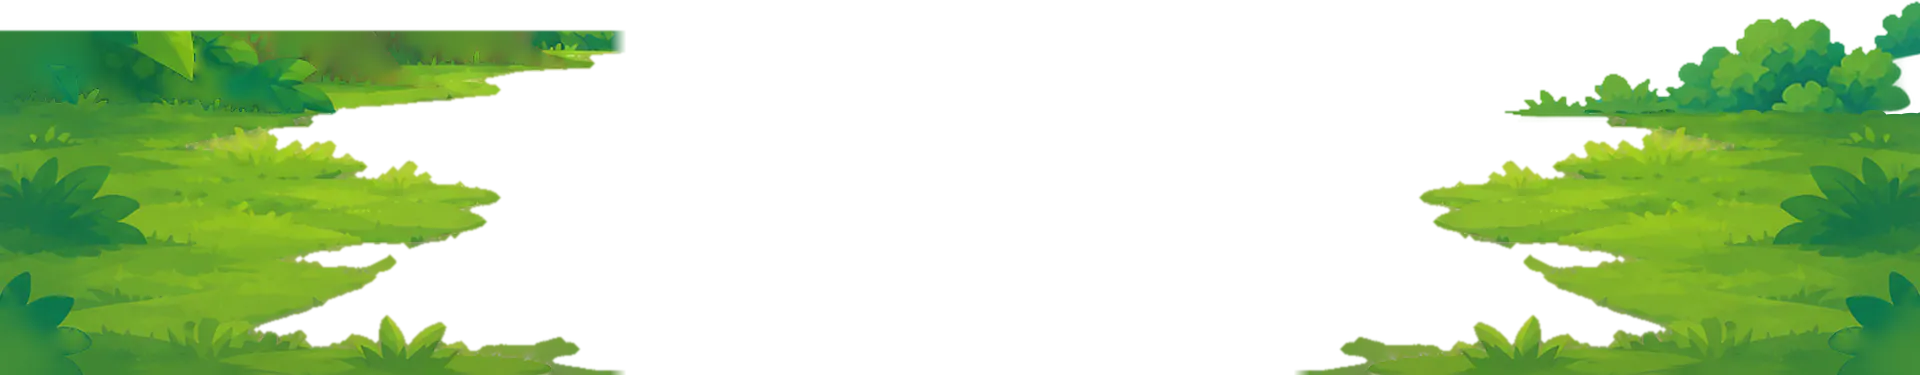
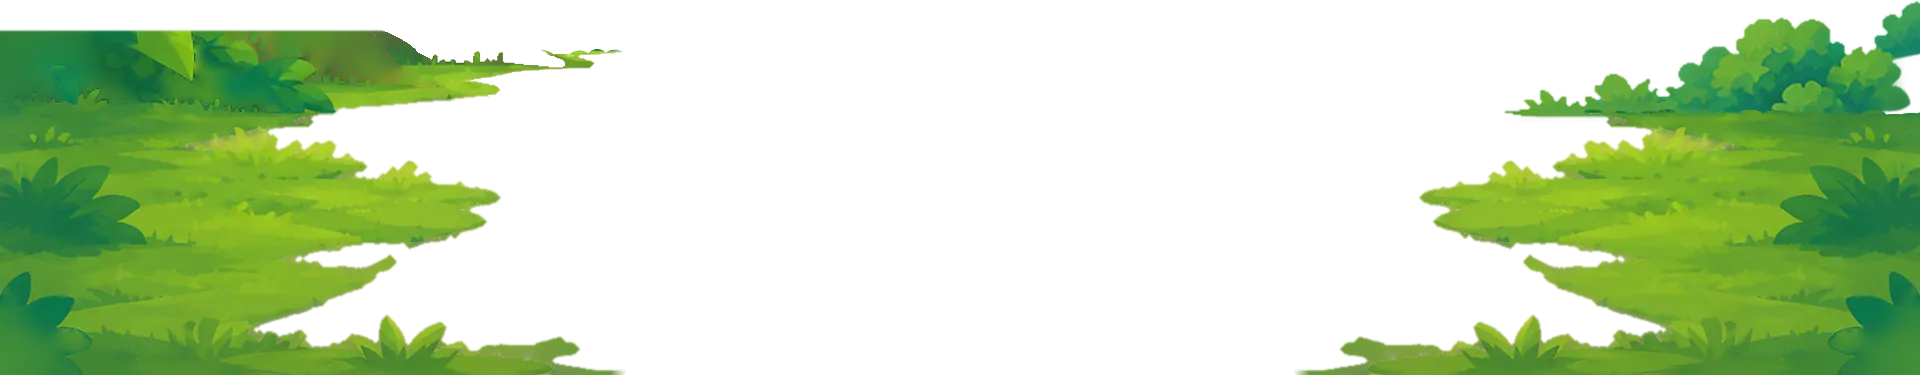
Remove the blur in the lawn between Grumble and the balance (27 Nov)
The lawn's filled-in strip by the tree's foot showed right of the roots: a
smoothed band of bush bottoms, cut straight along the top and fading out
over the water. Right of Grumble the lawn now begins at the shore below a
crisp row of small clumps and keeps only its own grass, so the paving runs
to the water as along the rest of the lake. Under the tree the soft shade
stays (behind Grumble) and ends in a slanted grassy edge, for the finale.
Done in tools/make_background.py (lawn_by_the_foot), so a rebuild keeps it.

Changed region(s): [[0.1875, 0.0587, 0.3438, 0.2347]]

diff --git a/tools/make_background.py b/tools/make_background.py
@@ -256,7 +256,7 @@ def build_lawn():
     # out over the paving, and looked pasted on (asked: "the grass leaf its look weird"). Since
     # 2026-11-26 the right has this lawn turned round instead, with a bank of bushes: lawn_both_sides.)
     alpha = alpha_left
-    return Image.fromarray(np.dstack([rgb, alpha[..., None] * 255]).astype(np.uint8)), floor
+    return Image.fromarray(np.dstack([rgb, alpha[..., None] * 255]).astype(np.uint8)), known
 
 
 # ---------------------------------------------------------------- a lawn on the right too (2026-11-26)
@@ -310,20 +310,28 @@ def right_bank():
     return Image.fromarray(np.clip(f, 0, 255).astype(np.uint8))
 
 
-def lawn_both_sides(full):
-    """The finished lawn (a full frame) with its twin at the right: turned round, from RIGHT_LAWN_TOP
-    down, and the bank behind its top edge."""
-    twin = np.array(ImageOps.mirror(full)).astype(np.float32)
-    w0, w1, h0, h1, seed = LAWN_CLUMPS
+def clump_top(base, seed):
+    """The output y of a lawn's top edge in each column: a crisp row of overlapping round clumps of
+    grass (LAWN_CLUMPS) rising above the line y = base (a number, or one per column)."""
+    w0, w1, h0, h1, _ = LAWN_CLUMPS
     rng = np.random.default_rng(seed)
-    top = np.full(W, float(RIGHT_LAWN_TOP))
+    base = np.broadcast_to(np.asarray(base, np.float64), (W,))
+    top = base.copy()
     x = 0.0
     while x < W:  # overlapping round clumps along the edge
         w, h = rng.uniform(w0, w1), rng.uniform(h0, h1)
         xs = np.arange(int(x), min(W, int(x + w) + 1))
         t = (xs - x) / w * 2 - 1
-        top[xs] = np.minimum(top[xs], RIGHT_LAWN_TOP - h * np.sqrt(np.clip(1 - t * t, 0, 1)))
+        top[xs] = np.minimum(top[xs], base[xs] - h * np.sqrt(np.clip(1 - t * t, 0, 1)))
         x += w * rng.uniform(0.55, 0.85)
+    return top
+
+
+def lawn_both_sides(full):
+    """The finished lawn (a full frame) with its twin at the right: turned round, from RIGHT_LAWN_TOP
+    down, and the bank behind its top edge."""
+    twin = np.array(ImageOps.mirror(full)).astype(np.float32)
+    top = clump_top(RIGHT_LAWN_TOP, LAWN_CLUMPS[4])
     rows = np.arange(H)[:, None]
     twin[..., 3] *= np.clip(rows - top[None, :] + 0.5, 0, 1)  # crisp: soft by a pixel only
     bank = right_bank()
@@ -332,6 +340,40 @@ def lawn_both_sides(full):
     layer.paste(bank, (W - bank.width + past, foot - bank.height))  # (cut at the frame's edge)
     a = over(twin, np.array(layer).astype(np.float32))  # the lawn's tufts in front of the bushes' feet
     a = over(np.array(full).astype(np.float32), a)
+    return Image.fromarray(np.clip(a, 0, 255).astype(np.uint8))
+
+
+# ---------------------------------------------------------------- no smudge by the tree's foot (2026-11-27)
+# The left lawn is filled in smoothly (push_pull_fill) where the reference has the tree's foot and the
+# bank bushes, and it stops at reference y 640, which cuts the bushes along a straight line. The tree
+# was meant to hide all that, but it did not: right of its foot (x ~470 to 626) a dark band of bush
+# bottoms, cut straight along the top and ending in a soft vertical fade over the water, and a smoothed
+# wedge under the foot showed between Grumble and the balance (asked 2026-11-27, with a crop of it: "fix
+# this blur fast"; the same strip that showed on the right on 2026-11-26). Now, right of PAVE_EDGE, the
+# lawn begins at the shore below a crisp row of small clumps, as on the right (LAWN_CLUMPS), and keeps
+# only its own grass there: the water meets the paving as it does all along the lake, and the paving
+# runs up to the tree's foot. Left of it the soft shade under the foot stays, behind Grumble (a shadow
+# there; the floor does not reach that far left, x < ~311, so the sky would show without it), and ends
+# in a slanting edge of small clumps, like the lawn's own edges (in the finale Grumble is not there).
+# (Tried and dropped the same day: the filled pixels under the foot given the lawn's own grass from a
+# little way below them, which repeated its tufts in plain stripes.)
+PAVE_EDGE = (470, 792, 1.6, 5)  # output px: where the shade's slanting end meets the lawn (behind Grumble's
+# horn), how many px it goes left for each px up, and its clumps' random seed
+SHORE = (762, 27)  # output y the lawn there begins at (its clumps rise above it), and the clumps' seed
+BAND_END = 810  # output y: only the lawn above this is changed (below it, and its twin, as they were)
+
+
+def lawn_by_the_foot(full, known):
+    """The left lawn (a full frame) with no filled-in pixel showing right of PAVE_EDGE (known: where
+    the reference has grass, in reference px)."""
+    a = np.array(full).astype(np.float32)
+    kn = np.array(Image.fromarray(known.astype(np.uint8) * 255).resize((W, H), Image.BILINEAR)) / 255.0
+    rows = np.arange(H)[:, None]
+    top = clump_top(SHORE[0], SHORE[1])
+    x0, y0, slope, seed = PAVE_EDGE
+    edge = x0 + (rows - y0) * slope + (SHORE[0] - clump_top(SHORE[0], seed)[:H, None])  # (bumps to the right)
+    cut = (np.arange(W)[None, :] >= edge) & (rows < BAND_END)
+    a[..., 3] = np.where(cut, a[..., 3] * np.clip(rows - top[None, :] + 0.5, 0, 1) * kn, a[..., 3])
     return Image.fromarray(np.clip(a, 0, 255).astype(np.uint8))
 
 
@@ -492,14 +534,14 @@ def render_layers(layout):
     out = [("sky", build_sky(), 0, 0, None)]
     img, x, y = crop_bbox(end_clouds(to_out(build_clouds())))  # soft already: no sharpening
     out.append(("clouds", img, x, y, "drift"))
-    lawn, _ = build_lawn()
+    lawn, known = build_lawn()
     for item in layout:
         kind = item[0]
         if kind == "floor":
             img, x, y = crop_bbox(sharpen(build_floor(item[1]), 1.6, 60))
             out.append(("floor", img, x, y, None))
         elif kind == "lawn":
-            img, x, y = crop_bbox(lawn_both_sides(sharpen(to_out(lawn), 1.2, 50)))
+            img, x, y = crop_bbox(lawn_both_sides(lawn_by_the_foot(sharpen(to_out(lawn), 1.2, 50), known)))
             out.append(("lawn", img, x, y, None))
         else:
             name, px, py, sc, flip, lid, anim = (list(item) + [None, None])[:7]
